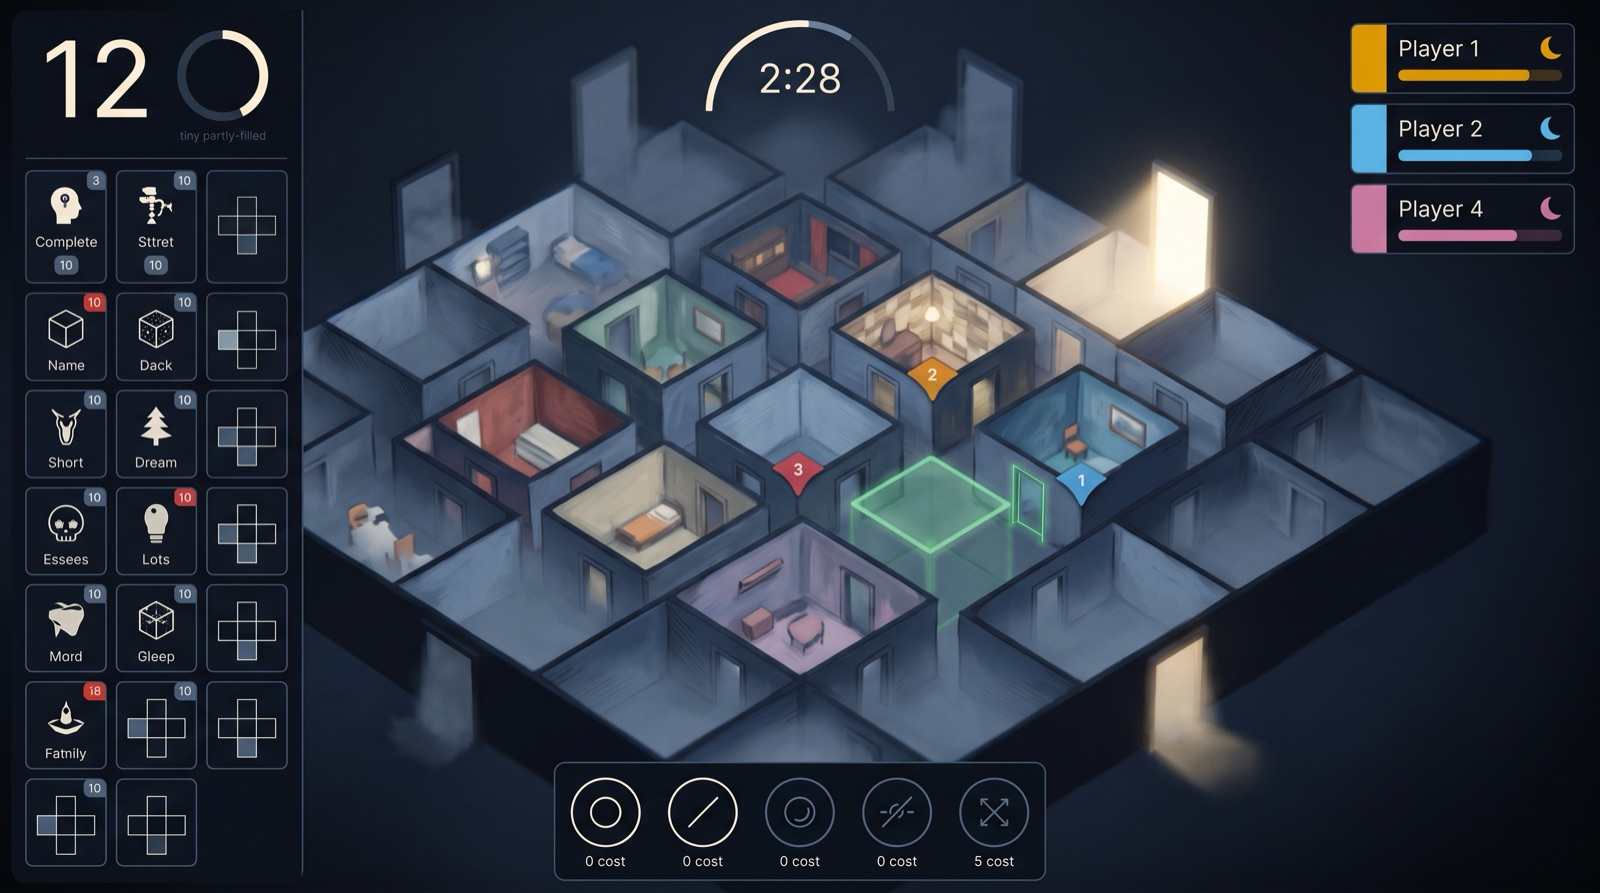
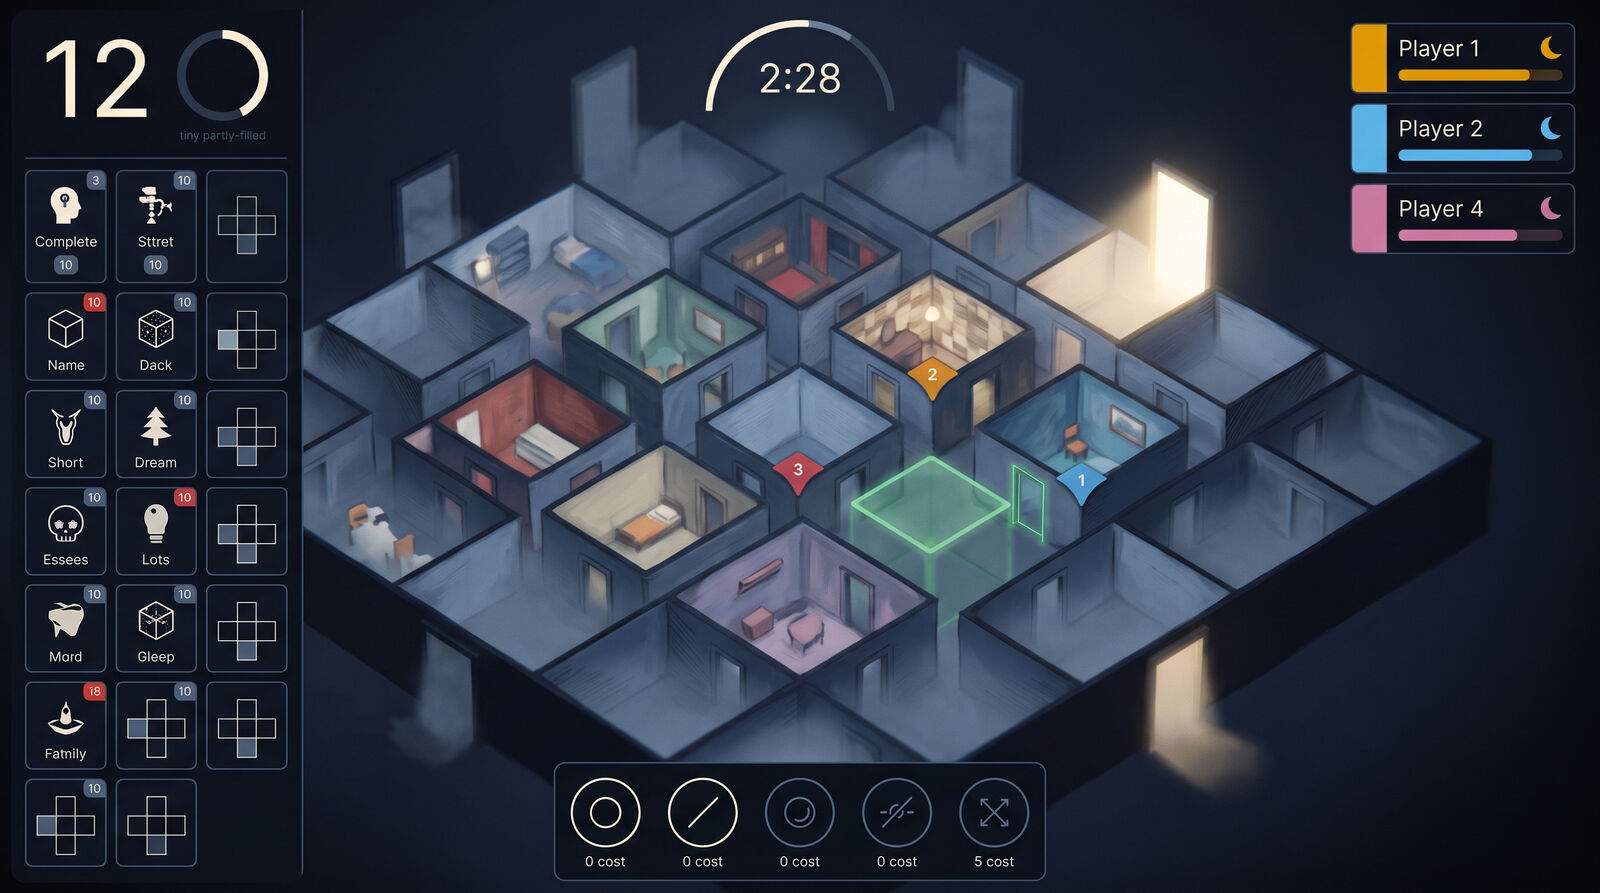
docs: the concept art is quality 80 now, as its own note claimed
Hygiene review of the branch. No HIGH; three MEDIUMs, all real.

- `sips -s formatOptions 80` does not set JPEG quality 80. The committed
  files were quality **94** while `docs/concept/README.md` said 80 — the
  artefact and the note about it disagreed. Re-encoded from the masters
  with ImageMagick at a real quality 80: 1,841,938 -> 1,107,889 bytes,
  **40% smaller**, at 39–44 dB PSNR against the losslessly downscaled
  master. From the masters rather than from the q94 files, because a
  second JPEG pass over an already-lossy image compounds the artefacts.
  The two UI mock-ups keep 4:4:4 chroma — they carry small text, and
  4:2:0 throws away three quarters of the colour resolution exactly
  where that shows. The note now gives the command that produced them.
  1600 px stays: 820 CSS px of README column at 2x is 1640.
- `THIRD_PARTY_NOTICES.md` carries the same licence enumeration as
  §18 and had not been amended. Leaving one of three lists behind is
  precisely the failure the decision was written about — concept art
  "fell between the two lists" is how the entry opens.
- The LFS exemption is conditional on these files being **write-once**,
  which was a comment in `.gitattributes` and nowhere in DECISIONS. An
  LFS clone fetches only the version it checks out; a plain blob is
  fetched for all of history, so one re-export of the set takes a fresh
  clone from 2.4 MB to 4.2 MB. Now stated as the condition it is.
[…]

diff --git a/docs/DECISIONS.md b/docs/DECISIONS.md
@@ -15,7 +15,7 @@ Spec: sections changed.
 ## 2026-09-06 — Concept art is the project's own work, and says how it was made
 
 Context: the owner produced ten concept images and asked for them in the README, so that people can see where the game is going. `docs/SPEC.md` §18's licensing bullet enumerated what the project releases under CC-BY-4.0 — text, briefs, specs, generated shell textures — and concept art was not on the list. It is also not a third-party asset, so rule 5 and `THIRD_PARTY_NOTICES.md` do not describe it either. It fell between the two.
-Decision: concept art is project work under CC-BY-4.0, named in §18 alongside the specs. It lives in `docs/concept/` at web resolution, and `docs/concept/README.md` records for each image how it was made — these were generated with Google Gemini. The full-resolution masters are not committed: they are 24 MB the set, they would sit in history for ever, and the README needs 1.8 MB of web-sized copies instead. `docs/concept/*.jpg` is exempted from Git LFS in `.gitattributes`, because GitHub serves README images through the LFS bandwidth quota and ten of them on the front page would spend it on people merely reading about the game.
+Decision: concept art is project work under CC-BY-4.0, named in §18 alongside the specs. It lives in `docs/concept/` at web resolution, and `docs/concept/README.md` records for each image how it was made — these were generated with Google Gemini. The full-resolution masters are not committed: they are 24 MB the set, they would sit in history for ever, and the README needs 1.8 MB of web-sized copies instead. `docs/concept/*.jpg` is exempted from Git LFS in `.gitattributes`, because GitHub serves README images through the LFS bandwidth quota and ten of them on the front page would spend it on people merely reading about the game. That exemption is conditional on these files being **write-once**: an LFS clone fetches only the version it checks out, a plain blob is fetched for all of history for ever, so one re-export of the set would take a fresh clone from 2.4 MB to 4.2 MB and every later one would add as much again. Replacing this art rather than adding to it means moving these back into LFS, or taking that cost knowingly.
 Reason: the licence has to say something, and the honest thing for it to say is that this is the project's own material rather than someone else's. Recording the provenance is the other half: a contributor who wants to know whether an image is a hand-drawn asset, a screenshot or a generated mock-up should be able to find out without asking, and the README's own note that these are **not screenshots** is load-bearing — the god view and the mobs in them do not exist, and a reader who took them for captures would badly misjudge how far along the project is.
 Spec: `docs/SPEC.md` §18's licensing bullet names concept art and points at the provenance file. `README.md` carries the images and the same disclaimer.
 

diff --git a/docs/concept/README.md b/docs/concept/README.md
@@ -28,9 +28,24 @@ CC-BY-4.0, as the project's own work (`docs/SPEC.md` §18,
 
 ## Files
 
-Committed at 1600 px wide, JPEG quality 80, about 1.8 MB the set. The
-full-resolution masters (2752 × 1536, ~24 MB) are **not** committed — they
+Committed at 1600 px wide — 820 CSS px of README column at 2× device pixel
+ratio — encoded from the masters with ImageMagick at JPEG quality 80,
+progressive, metadata stripped. About 1.08 MB the set. The two UI mock-ups
+keep full 4:4:4 chroma because they carry small text; the rest are 4:2:0.
+
+```
+magick <master> -resize 1600x -strip -quality 80 \
+  -sampling-factor 4:2:0 -interlace JPEG <name>.jpg
+```
+
+The first version of these was written with `sips -s formatOptions 80`, whose
+scale is not JPEG quality: the files came out at quality 94 and 1.8 MB, and the
+line above claimed 80. Review caught the artefacts disagreeing with the note.
+
+The full-resolution masters (2752 × 1536, ~24 MB) are **not** committed — they
 would sit in git history for ever to serve a page that wants web-sized copies.
+Treat what is here as **write-once**: it is a plain blob, not LFS, so every
+re-export stays in every clone's history for good.
 `docs/concept/*.jpg` is also exempt from Git LFS in `.gitattributes`: GitHub
 serves README images out of the LFS bandwidth quota, and ten of them on the
 front page would spend it on people merely reading about the game.

diff --git a/THIRD_PARTY_NOTICES.md b/THIRD_PARTY_NOTICES.md
@@ -1,7 +1,7 @@
 # Third-party notices
 
-Lucid's own code is MIT (`LICENSE`); its original text, briefs, specs and
-generated shell textures are CC-BY-4.0. Everything below belongs to someone else
+Lucid's own code is MIT (`LICENSE`); its original text, briefs, specs, concept art
+and generated shell textures are CC-BY-4.0. Everything below belongs to someone else
 and keeps its own licence.
 
 Per-cube art assets are **not** listed here. Each cube carries its own ledger at
